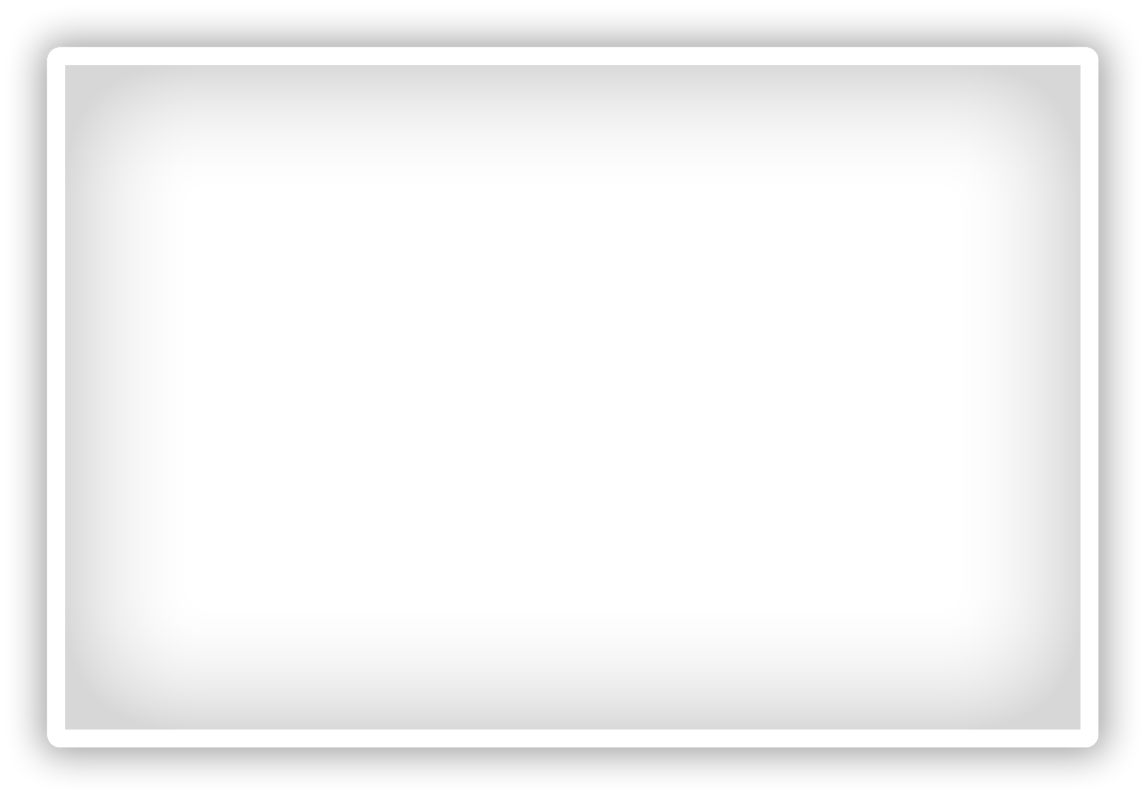
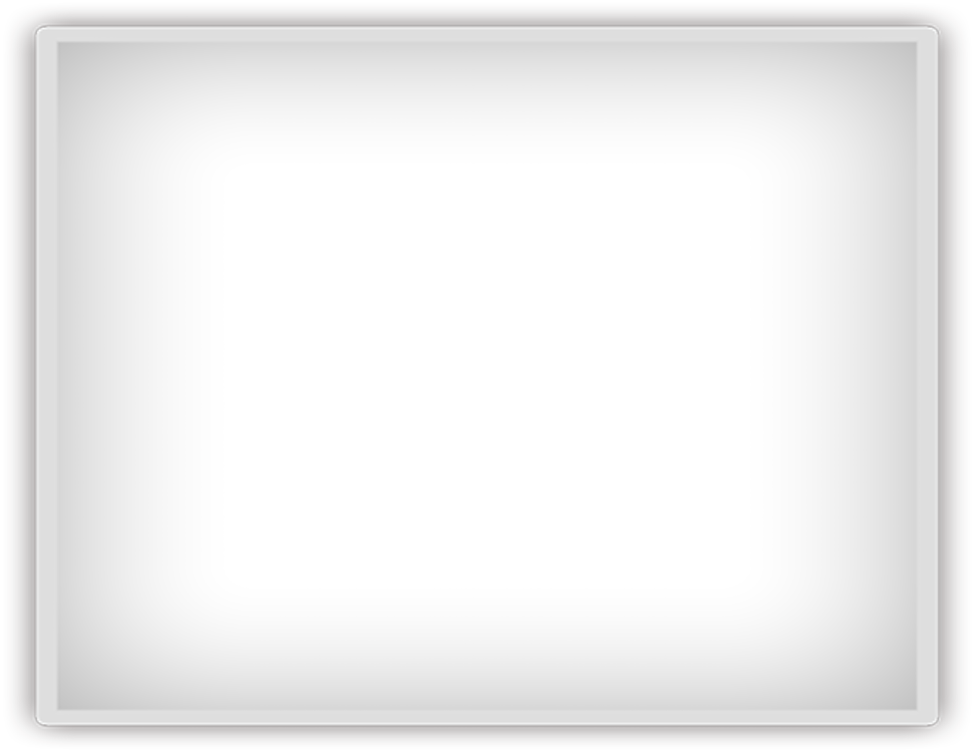
Fix for HistoryEventsMedia photoFrame size

Changed region(s): [[0.0, 0.0, 0.9846, 0.9787]]

diff --git a/src/main/js/components/HistoryEvents/HistoryEventsMedia/HistoryEventsMedia.css b/src/main/js/components/HistoryEvents/HistoryEventsMedia/HistoryEventsMedia.css
@@ -1,6 +1,6 @@
 .historyEventsMedia {
     text-align: center;
-    margin-top: 53px;
+    margin-top: 59px;
     position: relative;
 }
 
@@ -14,10 +14,10 @@
 
 .historyEventsMedia_photoFrame {
     position: relative;
-    width: 1013px;
-    height: 661px;
+    width: 857px;
+    height: 664px;
     background-image: url(./images/photoFrame.png);
-    padding: 67px 67px;
+        padding: 44px 59px;
 }
 
 .historyEventsMedia_arrow {
@@ -32,6 +32,6 @@
 .historyEventsMedia_closeButton {
     position: absolute;
     cursor: pointer;
-    top: 35px;
-    right: 27px;
+    top: 14px;
+    right: 14px;
 }

diff --git a/src/main/js/components/HistoryEvents/HistoryEventsMedia/HistoryEventsPhoto/HistoryEventsPhoto.css b/src/main/js/components/HistoryEvents/HistoryEventsMedia/HistoryEventsPhoto/HistoryEventsPhoto.css
@@ -10,6 +10,6 @@
 }
 
 .historyEventsPhoto_photo {
-    max-width: 1012px;
-    max-height: 661px;
+    max-width: 100%;
+    max-height: 100%;
 }

diff --git a/src/main/js/components/HistoryEvents/HistoryEventsMedia/HistoryEventsVideo/HistoryEventsVideo.css b/src/main/js/components/HistoryEvents/HistoryEventsMedia/HistoryEventsVideo/HistoryEventsVideo.css
@@ -1,5 +1,5 @@
 .video-js {
-    width: 1012px;
+    width: 857px;
     height: 661px;
 }
 
